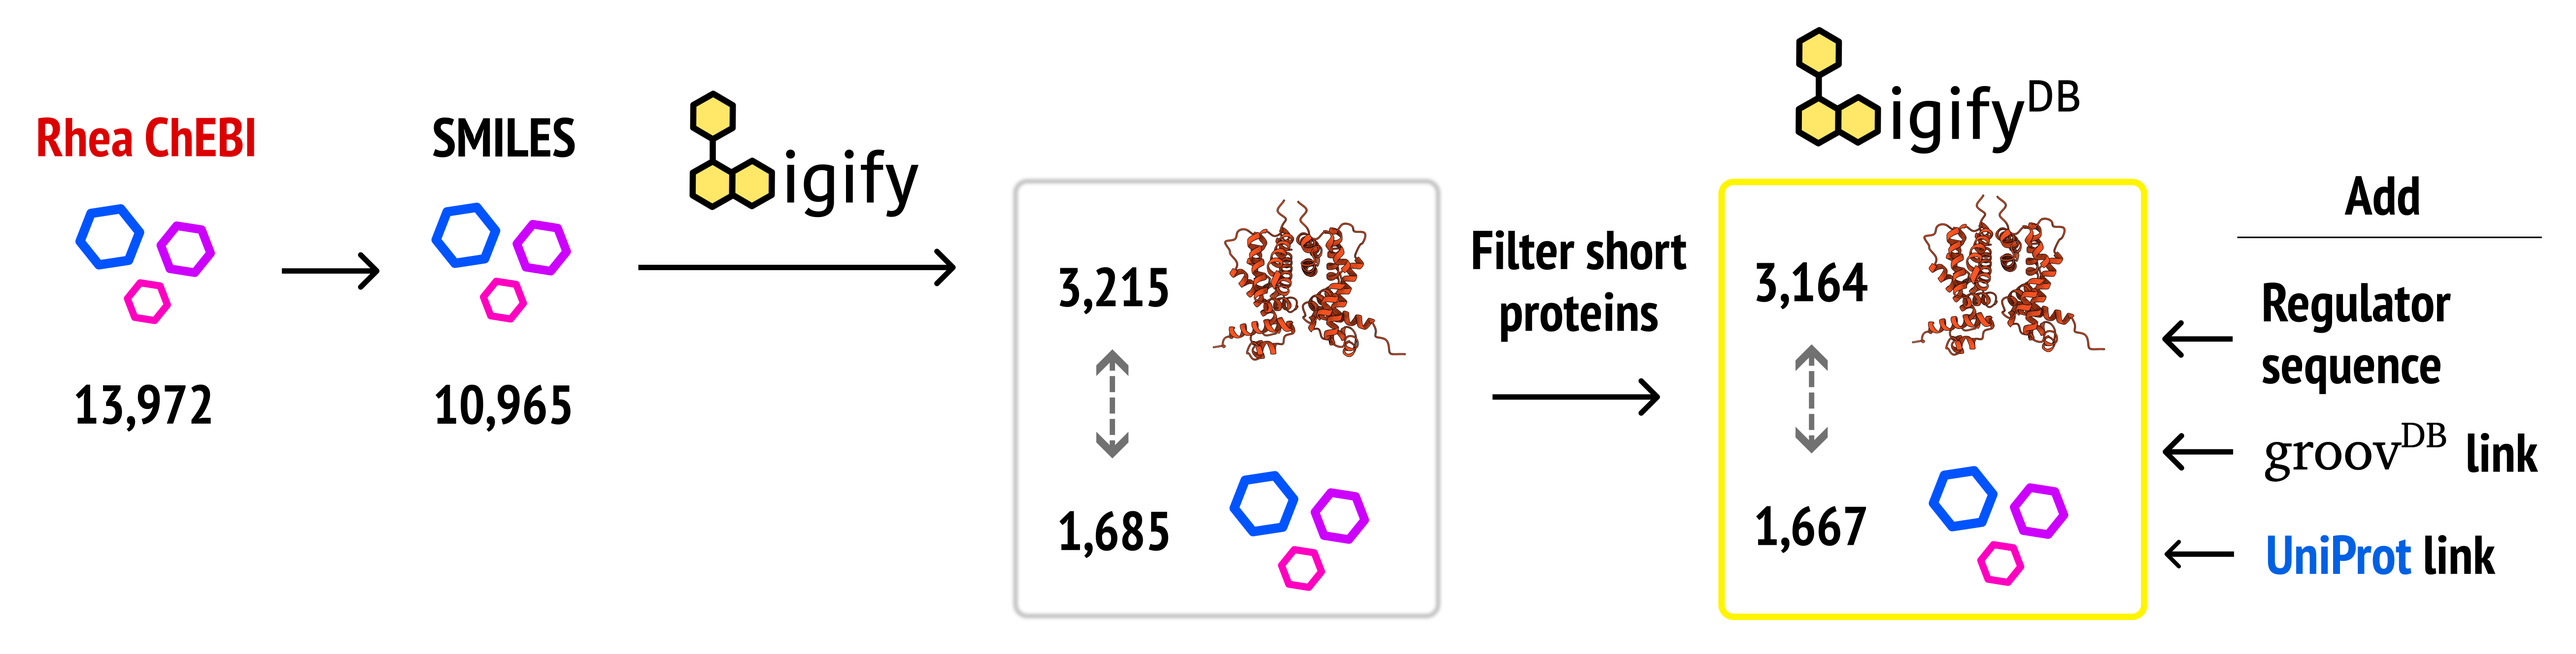
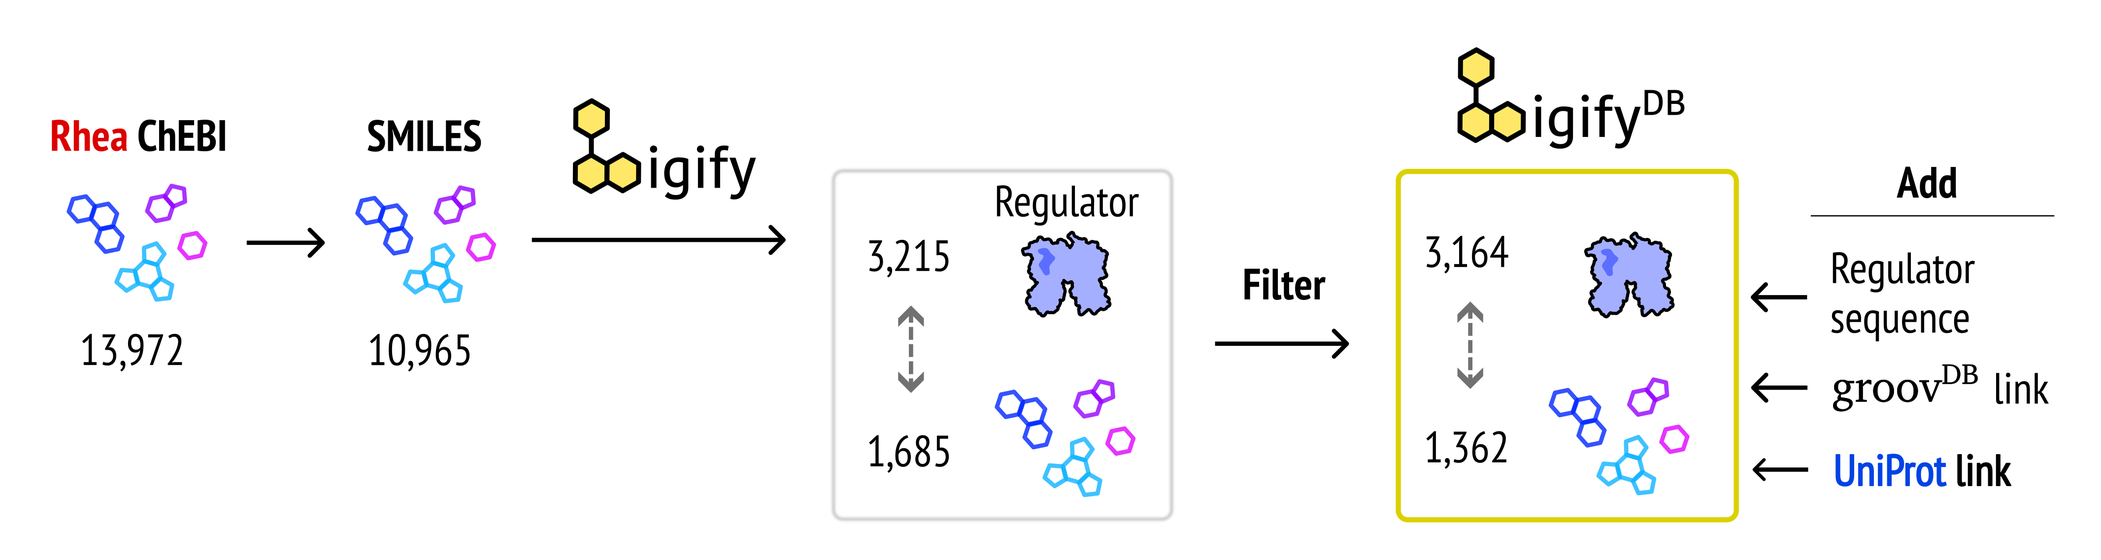
Nar (#4)
* added link to previous version

* added access statement

* removed uses of LigifyDB

* updated figures and regPage

diff --git a/src/Components/AboutPage/Introduction.js b/src/Components/AboutPage/Introduction.js
@@ -24,11 +24,11 @@ export default function Introduction() {
         fontWeight="500"
         gutterBottom
       >
-        A database of predicted biosensors
+        A web server for predicted biosensors
       </Typography>
       <Typography sx={{ fontSize: { xs: 14, sm: 16, md: 18 } }}>
-        Ligify<sup>DB</sup> is an open-source database of bacterial transcription factor-ligand associations
-        predicted from genome context. The objective of Ligify<sup>DB</sup> is to <b> provide researchers with leads </b>
+        Ligify is an open-source web server for bacterial transcription factor-ligand associations
+        predicted from genome context and enzyme reaction data. The objective of Ligify is to <b> provide researchers with leads </b>
         to biosensors responsive to any desired chemical. Ultimately, we hope this tool will help grow the catalog of chemical-responsive
         geneitic sensors available for biotechnological applications. 
       </Typography>
@@ -162,7 +162,7 @@ export default function Introduction() {
         workflow was performed on the resulting chemicals. 1,685 unique molecules were predicted to be associated with a
         total of 3,215 unique regulators. To reduce false positives we filtered out regulators smaller than 80 amino acids,
         since some of the shortest regulators known to bind DNA and a small molecule are around 90 amino acids long. This
-        produced 3,164 unique regulators associated with 1,667 unique molecules. To finalize the database, we (1) removed
+        produced 3,164 unique regulators associated with 1,362 unique molecules. To finalize the database, we (1) removed
         unnecessary data fields to reduce file size, (2) added the protein regulator sequence, (3) added Uniprot links to
         each regulator when possible, and (4) added links to homologous characterized transcription factors in {' '}
         <a href="https://groov.bio" target="_blank" rel="noopener noreferrer">groov<sup>DB</sup></a>.
@@ -186,7 +186,7 @@ export default function Introduction() {
       </Typography >
       <Typography sx={{ fontSize: { xs: 14, sm: 16, md: 18 } }}>
         The previous version of Ligify was hosted on a streamlit app and required computing predictions on demand.
-        The new version, Ligify<sup>DB</sup>, is a standalone database of pre-computed predictions that provides the following benefits. 
+        The new version, Ligify 2.0, is a custom web server that hosts pre-computed predictions, which provides the following benefits. 
       </Typography>
 
       <List>
@@ -221,7 +221,7 @@ export default function Introduction() {
               <b><i>SEARCH</i></b><br/> 
                 Advanced searches can be performed by applying various filters to the entire dataset. For example, a user can 
                 filter the dataset based on a regulator's size, annotation, rank, organism, operon size, or distance to the associated enzyme. In 
-                addition, characterized regulators in groovDB with over 40% identity to ligifyDB regulators are linked, enabling users to support
+                addition, characterized regulators in groov<sup>DB</sup> with over 40% identity to Ligify regulators are linked, enabling users to support
                 inferences about the ligand or DNA binding properties of the predicted regulator.
             </ListItemText>
           </ListItem>

diff --git a/src/Components/RegulatorPage/RegulatorPage.js b/src/Components/RegulatorPage/RegulatorPage.js
@@ -1,6 +1,6 @@
 // RegulatorPage.jsx
 import React, { useEffect, useMemo } from "react";
-import { Box, Typography, LinearProgress, Alert } from "@mui/material";
+import { Box, Typography, LinearProgress, Alert, Paper } from "@mui/material";
 import Grid from "@mui/material/Grid";
 import { useParams } from "react-router-dom";
 import { useDBStore } from "../../stores/db.store"; // your zustand store
@@ -76,37 +76,49 @@ export default function RegulatorPage() {
 
         {/* Header */}
         <Grid container size={12} mb={6}>
+
+        <Paper sx={{ p: 1, borderRadius: 2, background: 'linear-gradient(135deg, rgba(0,0,0,0.02) 0%, rgba(0,0,0,0.05) 100%)' }}>
+          <Box sx={{ display: 'flex', justifyContent: 'space-between', alignItems: 'flex-start', flexWrap: 'wrap', gap: 2 }}>
+            <Box sx={{ flex: 1, minWidth: 0 }}>
+
           <Grid size={12} mt={3} textAlign="center">
+
             <Typography
               component="div"
               gutterBottom
               sx={{
-                fontSize: { xs: 30, sm: 55 },
+                fontSize: { xs: 30, sm: 40 },
                 textAlign: "center",
-                fontWeight: 300,
+                fontWeight: 400,
               }}
             >
               {title}
             </Typography>
           </Grid>
+
+          <Grid size={12} mb={2} mt={6}>
+            <RegulatorAttributes data={regulator} />
+          </Grid>
+
+          </Box>
+        </Box>
+      </Paper>
+
         </Grid>
 
         {/* Body */}
         <Grid container spacing={3} mt={3}>
-          <Grid size={12} mb={6}>
-            <RegulatorAttributes data={regulator} />
-          </Grid>
 
-          <Grid size={{xs:12,md:6}} md={6} mb={9}>
+          <Grid size={{xs:12,md:6}} md={6} mb={4}>
             <LigandViewer ligand={ligandList} />
           </Grid>
 
-          <Grid size={{xs:12,md:6}} md={6} mb={9}>
+          <Grid size={{xs:12,md:6}} md={6} mb={4}>
             <Structure accession={accession} />
           </Grid>
 
           <Grid size={12} mb={6}>
-            <PlasmidDesigner data={regulator} />
+            <GenomeContext data={genomeContext} />
           </Grid>
 
           <Grid size={12} mb={6}>
@@ -115,10 +127,6 @@ export default function RegulatorPage() {
 
           <Grid size={12} mb={6}>
             <PredictedPromoter promoter={promoter} />
-          </Grid>
-
-          <Grid size={12} mb={6}>
-            <GenomeContext data={genomeContext} />
           </Grid>
 
           <Grid size={{xs:12,md:6}} md={6} mb={6}>
@@ -134,6 +142,11 @@ export default function RegulatorPage() {
               <SimilarProteins data={hits} />
             </Grid>
           )}
+
+          <Grid size={12} mb={6}>
+            <PlasmidDesigner data={regulator} />
+          </Grid>
+
         </Grid>
       </Box>
     </Grid>

diff --git a/src/Components/HomePage/Banner.js b/src/Components/HomePage/Banner.js
@@ -1,0 +1,58 @@
+import { Box, Typography, Link } from "@mui/material";
+
+const Banner = () => {
+  return (
+    <Box
+      sx={{
+        position: "fixed",
+        top: 70,
+        left: "50%",
+        transform: "translateX(-50%)",
+        bgcolor: "background.paper",
+        color: "text.primary",
+        px: 2,
+        py: 1,
+        borderRadius: 2,
+        boxShadow: 3,
+        zIndex: 1000,
+        display: "flex",
+        alignItems: "center",
+        width: {
+            xs: "90%",
+            sm: "auto",
+    },
+      }}
+    >
+      <Typography
+        variant="body2"
+        sx={{
+          paddingLeft: 5,
+          paddingRight: 5,
+          width: "100%",
+          textAlign: "center",
+          fontSize: {
+            xs: "0.75rem", // small screens
+            sm: "0.875rem", // tablets
+            md: "1rem",     // desktops
+            lg: "1.2rem",     // desktops
+          },
+          fontWeight: 400,
+        }}
+      >
+        Previous version available{" "}
+        <Link
+          href="https://ligify.streamlit.app"
+          target="_blank"
+          rel="noopener noreferrer"
+          underline="hover"
+          color="primary"
+          sx={{ ml: 0.5 }}
+        >
+          <i>here</i>
+        </Link>
+      </Typography>
+    </Box>
+  );
+};
+
+export default Banner;

diff --git a/src/Components/AboutPage/Statistics.js b/src/Components/AboutPage/Statistics.js
@@ -29,7 +29,7 @@ export default function Statistics() {
       </Typography >
 
       <Typography sx={{ fontSize: { xs: 14, sm: 16, md: 18 } }}>
-        Regulators within Ligify<sup>DB</sup> belong to some of the most common structural families, including LysR and TetR.
+        Regulators within Ligify belong to some of the most common structural families, including LysR and TetR.
         Compared to past analyses of structural family frequencies in all bacteria, the LacI family is more represented and 
         the AraC family is less represented.
 
@@ -69,7 +69,7 @@ export default function Statistics() {
       </Typography >
 
       <Typography sx={{ fontSize: { xs: 14, sm: 16, md: 18 } }}>
-        A small fraction of the 1,374 ligands in Ligify<sup>DB</sup> are associated with a large fraction of the regulators 
+        A small fraction of the 1,362 ligands in Ligify are associated with a large fraction of the regulators 
         in the database. Twenty two ligands are associated with over 100 regulators, while 434 ligands are associated with 
         just one regulator. This bias is likely due to the overrepresentation of cofactors involved in the enzyme reactions 
         from which most predicted interactions are derived. Looking at the top 10 most common ligands, most of them are indeed

diff --git a/src/Components/HomePage/Home.js b/src/Components/HomePage/Home.js
@@ -1,7 +1,10 @@
 import Search from './Search.js';
 import Stats from './Stats.js';
+import Banner from './Banner.js';
+import AccessStatement from './AccessStatement.js';
 
 import { Box, Grid, Typography } from '@mui/material';
+
 
 import '@fontsource/roboto/300.css';
 import '@fontsource/roboto/400.css';
@@ -21,6 +24,10 @@ export default function Home() {
         background: 'linear-gradient(to right bottom, #fffa91, #ffffff)',
       }}
     >
+
+      <Banner/>
+
+
       <Grid
         size={{xs:12, sm:12, md:6}}
 
@@ -55,7 +62,7 @@ export default function Home() {
           component="div"
           textAlign="center"
         >
-          Ligify<sup>DB</sup>
+          Ligify
         </Typography>
 
 
@@ -70,13 +77,14 @@ export default function Home() {
           component="div"
           textAlign="center"
         >
-          A database of predicted ligand-inducible transcription factors
+          A web server for predicted small molecule biosensors
         </Typography>
 
 
           <Search width="100%" />
 
-        <Stats />
+        <Stats/>
+        <AccessStatement/>
       </Grid>
     </Grid>
   );

diff --git a/src/Components/HomePage/AccessStatement.js b/src/Components/HomePage/AccessStatement.js
@@ -1,0 +1,28 @@
+import { Grid, Typography } from '@mui/material';
+
+export default function AccessStatement() {
+
+  return (
+    <Grid
+      sx={{
+        borderRadius: 1,
+        padding: 1.5,
+        position: 'absolute',
+        right: '0px',
+        width: {xs:150, sm:270, md:500},
+        bottom: '20px',
+      }}
+    >
+      <Typography sx={{ 
+        fontSize: 
+          { xs: 14, sm: 18, md:22 } }}>
+
+        Access is freely available via our{' '}
+        <a style={{color:"#a30300"}} href="https://github.com/groov-bio/ligify-ui?tab=MIT-1-ov-file">MIT license</a>.
+      </Typography>
+      {/* <Typography sx={{ fontSize: { xs: 14, sm: 22 } }}>
+        Unique ligands: 1,362
+      </Typography> */}
+    </Grid>
+  );
+}

diff --git a/src/Components/BrowsePage.js b/src/Components/BrowsePage.js
@@ -131,7 +131,7 @@ export default function BrowsePage() {
     <Grid container spacing={0} direction="column" alignItems="center" justifyContent="center" sx={{ mt: 5 }}>
       <Box sx={{ width: { xs: '90%', sm: '80%', md: '70%', lg: '60%' } }}>
         <Typography textAlign="center" sx={{ fontSize: { xs:18, sm: 24, md: 32 }, mb: { xs: 2, sm: 3, md: 5 }, mt: { xs: 0, sm: 0, md: "5%" }, fontWeight: 500 }}>
-          Predicted Regulators
+          Predicted Biosensors
         </Typography>
 
         <DataGrid

diff --git a/src/Components/AboutPage/Citation.js b/src/Components/AboutPage/Citation.js
@@ -19,7 +19,7 @@ export default function Citation() {
         Citing
       </Typography>
       <Typography sx={{ fontSize: { xs: 14, sm: 16, md: 18 } }}>
-        If you have used ligify<sup>DB</sup> in a publication, please cite the following
+        If you have used Ligify in a publication, please cite the following
         paper
       </Typography>
 

diff --git a/src/Components/AboutPage/Usage.js b/src/Components/AboutPage/Usage.js
@@ -35,7 +35,7 @@ export default function Usage() {
         fontWeight="300"
         gutterBottom
       >
-        Querying LigifyDB
+        Querying Ligify
       </Typography >
       <Typography sx={{ fontSize: { xs: 14, sm: 16, md: 18 } }}>
         Users can search the database via the search bar on the Home Page or the data table on the Browse Page.

diff --git a/src/Components/NavigationBar.js b/src/Components/NavigationBar.js
@@ -42,7 +42,7 @@ export default function NavigationBar() {
               <Box
                 component="img"
                 sx={{ height: '50px' }}
-                src="/Ligify_Logo_Dark.png"
+                src="/Ligify_Logo_Dark2.png"
                 alt="Ligify logo dark"
               />
             </Link>

diff --git a/src/Components/HomePage/Stats.js b/src/Components/HomePage/Stats.js
@@ -16,7 +16,7 @@ export default function Stats() {
         Regulators: 3,164
       </Typography>
       <Typography sx={{ fontSize: { xs: 14, sm: 22 } }}>
-        Unique ligands: 1,374
+        Unique ligands: 1,362
       </Typography>
     </Grid>
   );
